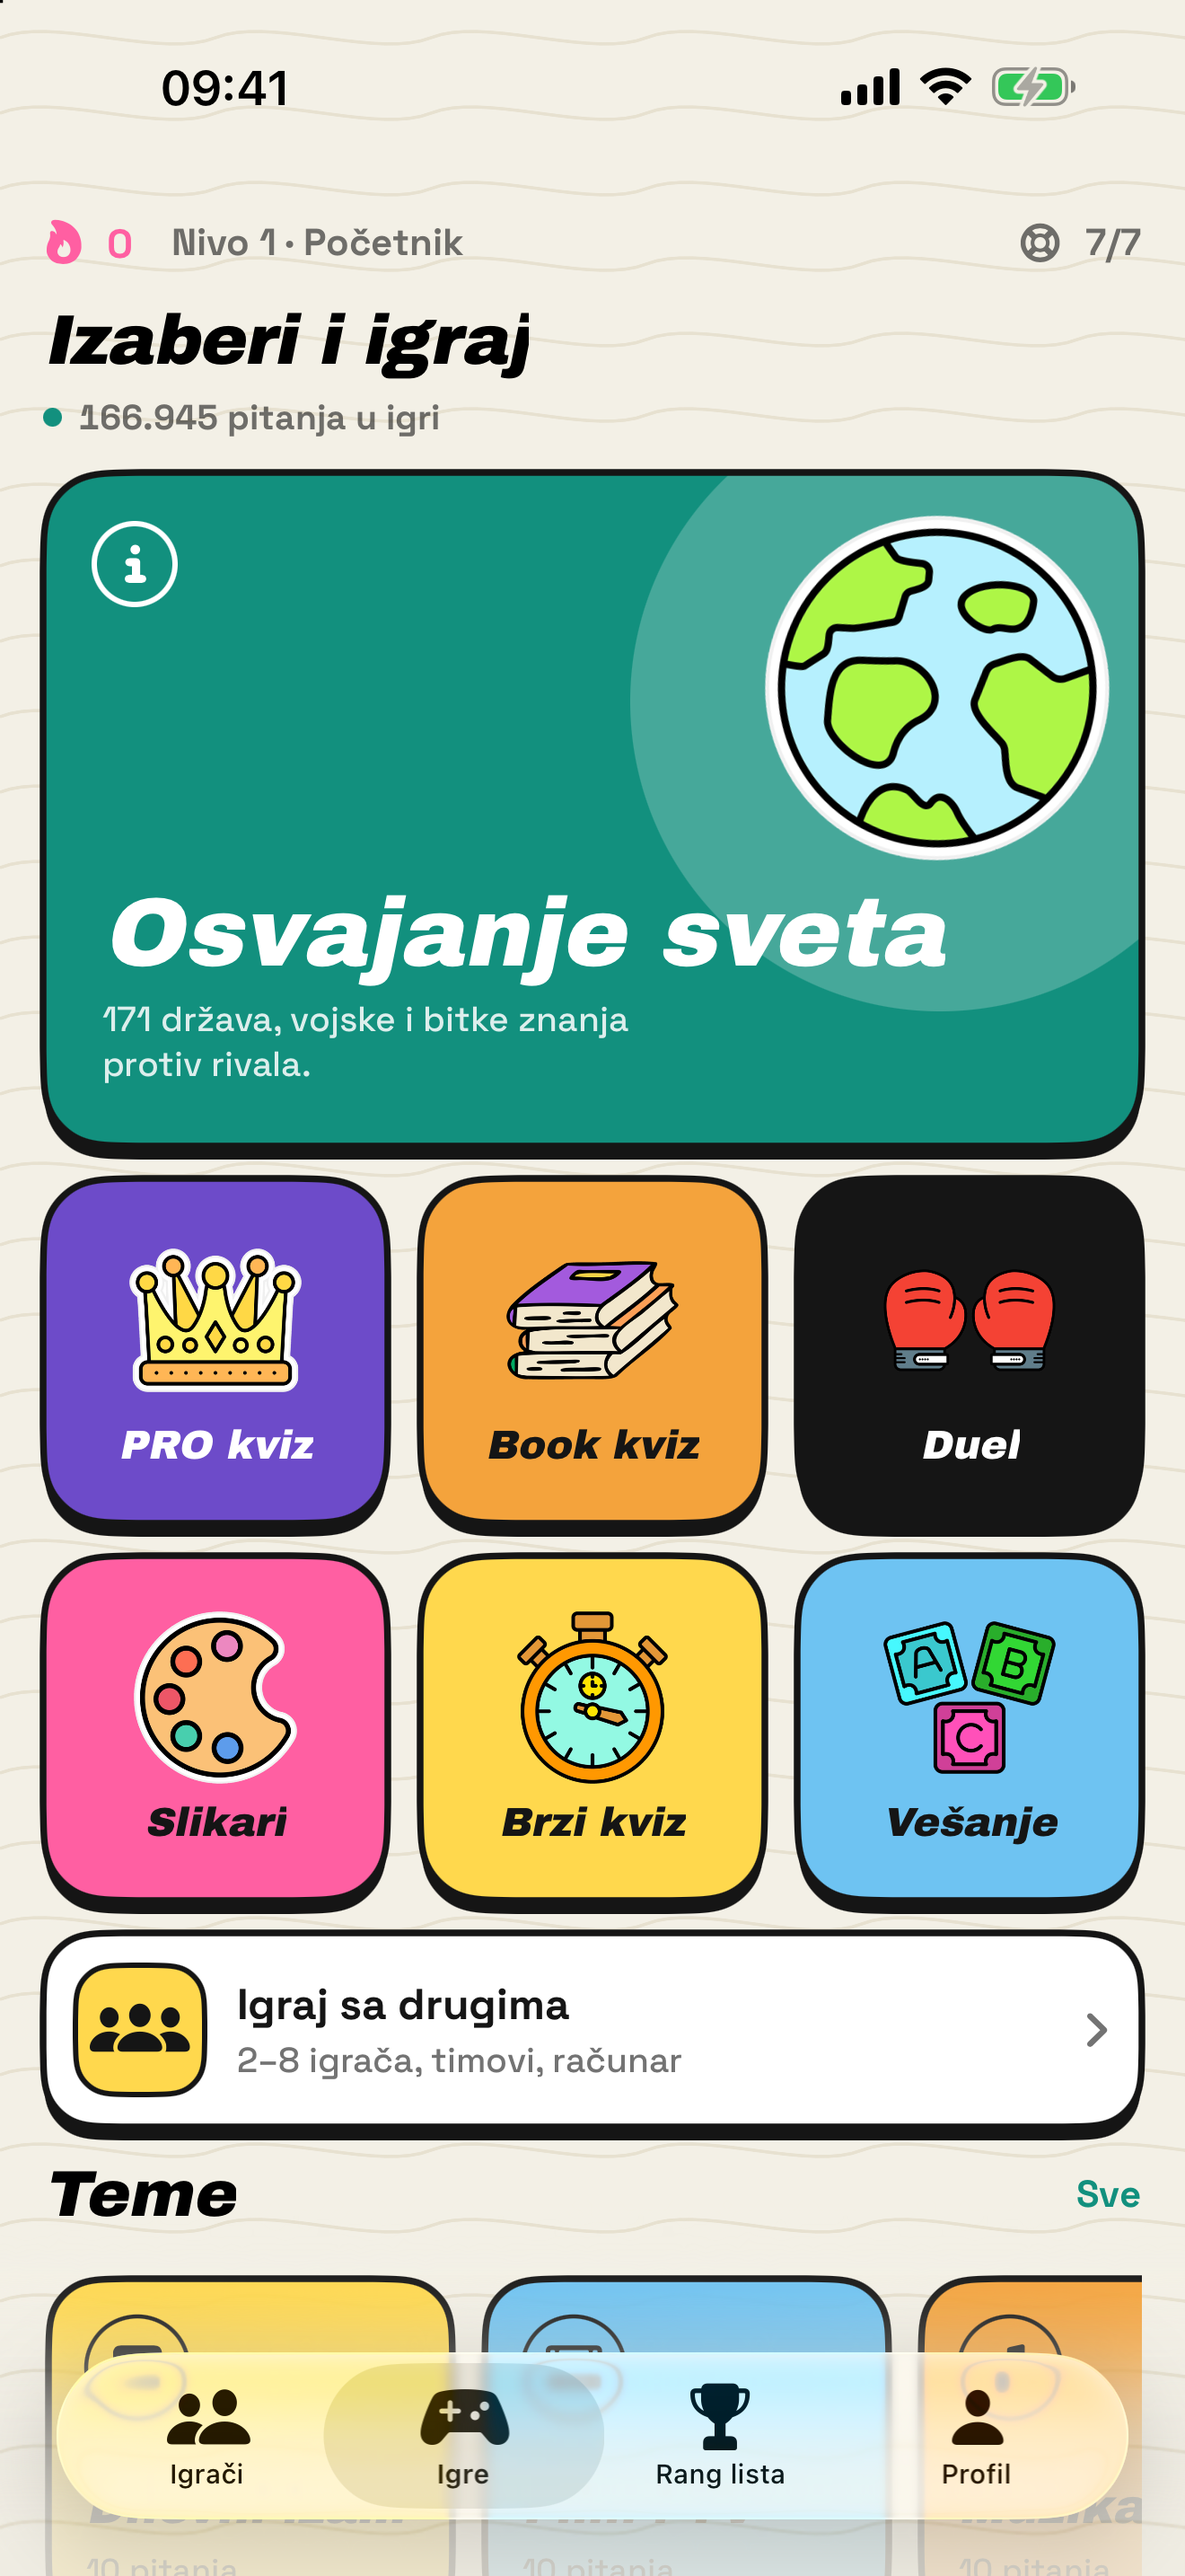
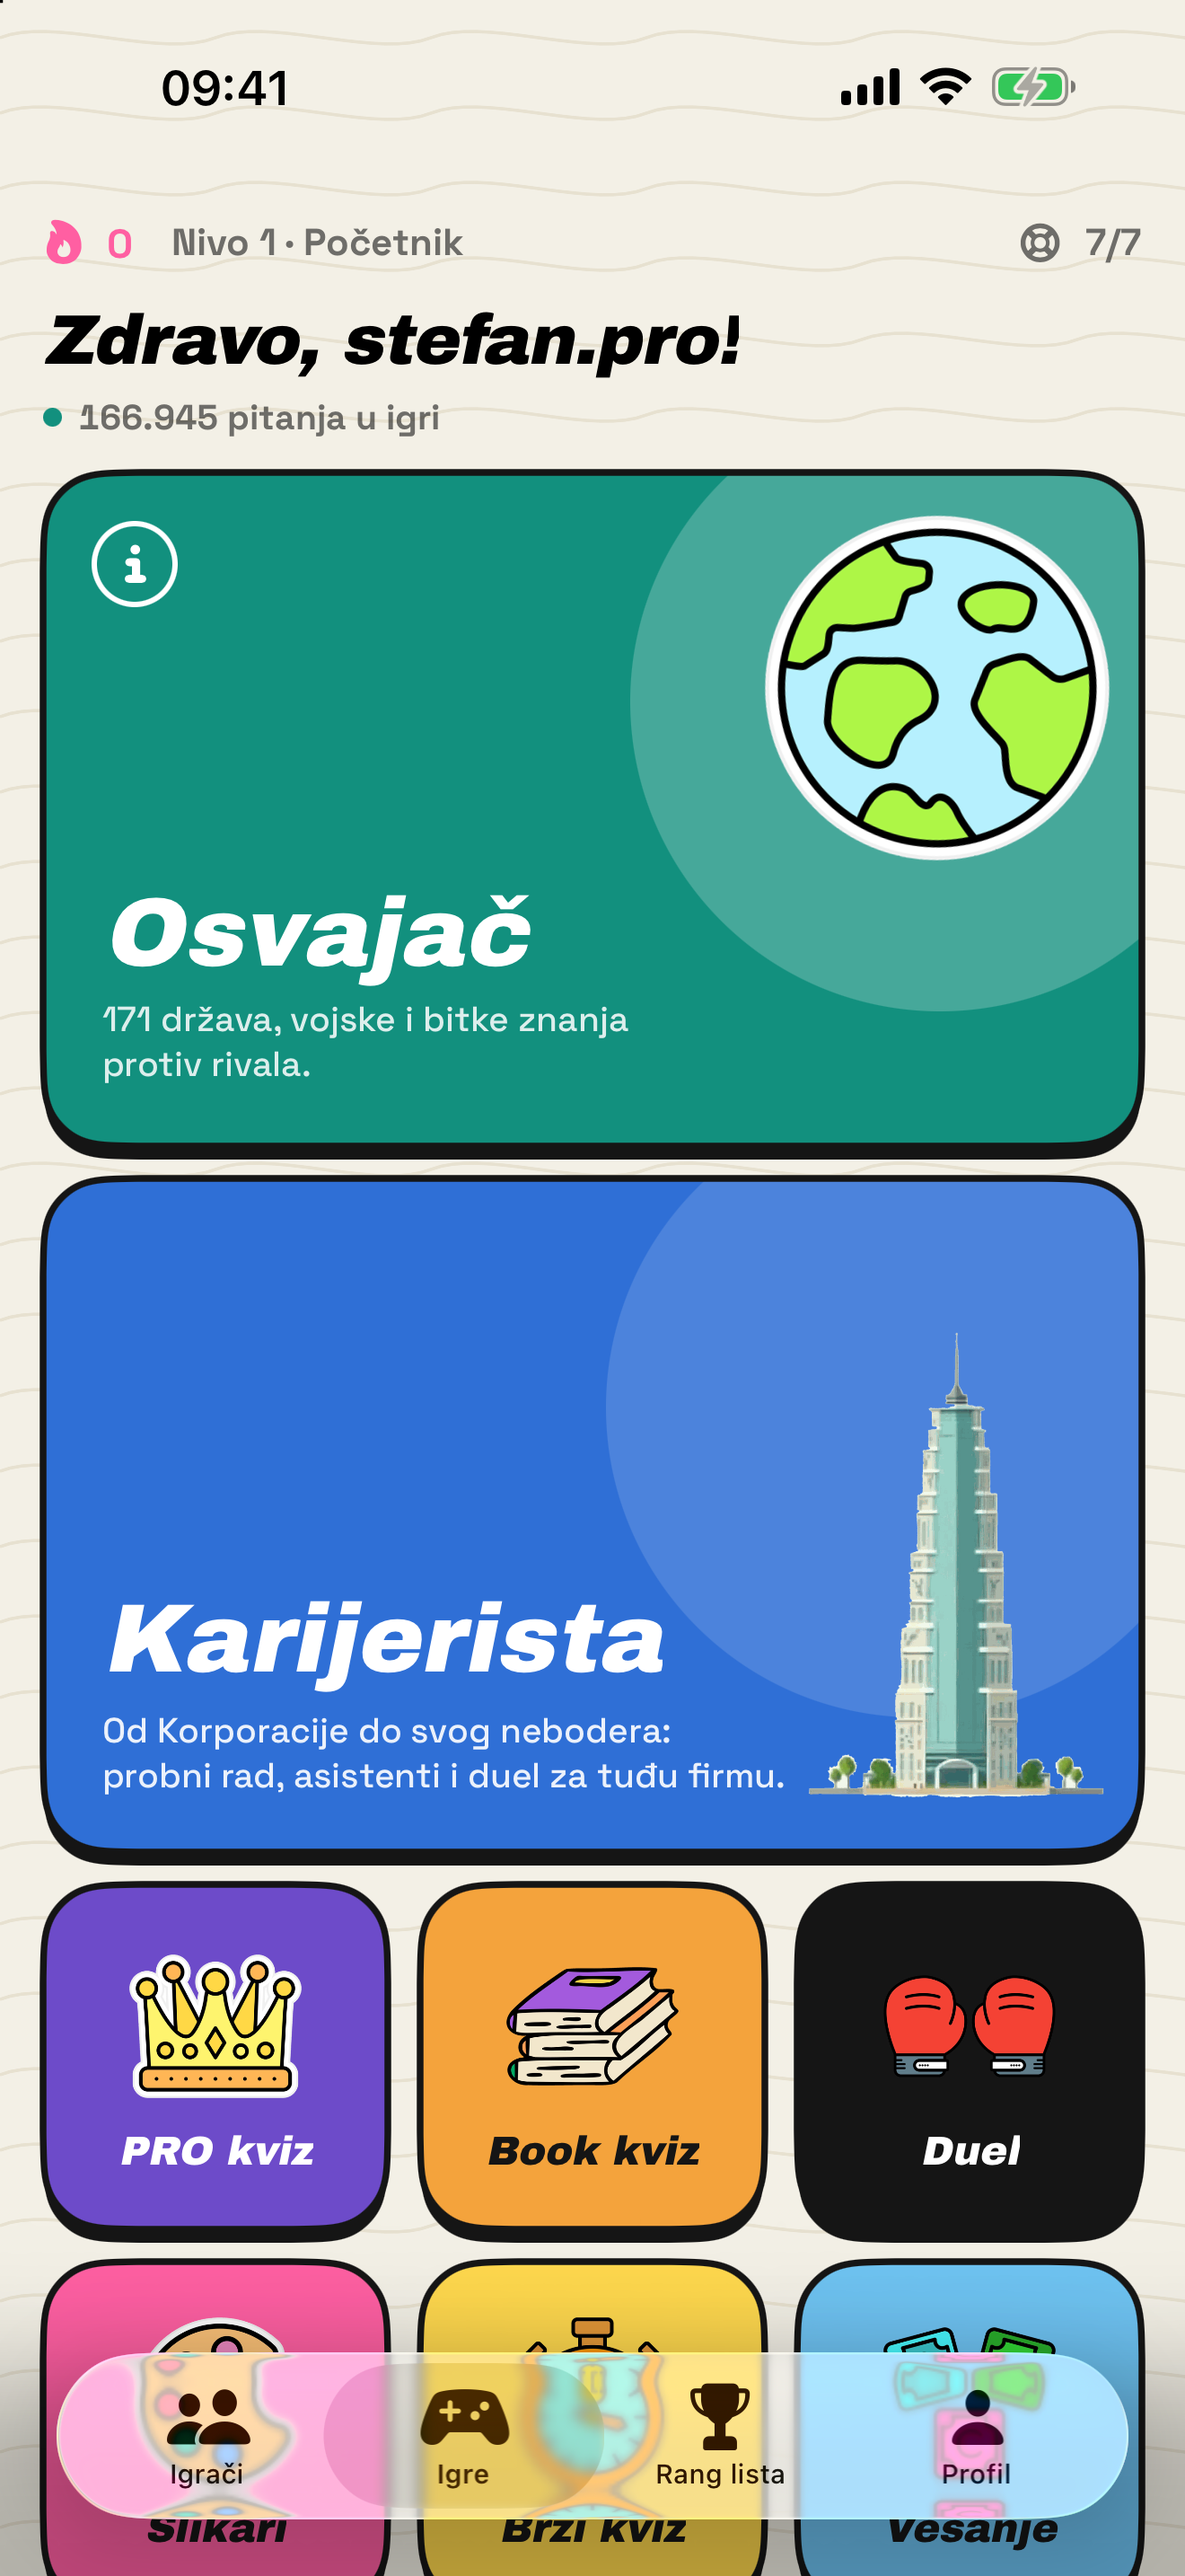
Karijerista: vlasnik bira zaštitu firme 3/5/7/10 dana; novi snimci ekrana sa telefona

diff --git a/mobile/android/app/src/main/java/club/librum/kviz/karijera/KarijeraFirma.kt b/mobile/android/app/src/main/java/club/librum/kviz/karijera/KarijeraFirma.kt
@@ -6,6 +6,7 @@ import androidx.compose.material.icons.rounded.Edit
 import androidx.compose.material.icons.rounded.Star
 import androidx.compose.material.icons.rounded.RecordVoiceOver
 import androidx.compose.material.icons.rounded.CalendarMonth
+import androidx.compose.material.icons.rounded.Shield
 import androidx.compose.material.icons.rounded.Layers
 import androidx.compose.material.icons.rounded.CheckCircle
 import androidx.compose.material.icons.rounded.RadioButtonUnchecked
@@ -90,7 +91,7 @@ private fun KOkvir(nazad: () -> Unit, poruka: String? = null, ocisti: () -> Unit
     }
 }
 
-private enum class List_ { NEMA, BOT, KLJUCNE, IME, PRIJAVA, SEF, PITANJA, SLOBODNI }
+private enum class List_ { NEMA, BOT, KLJUCNE, IME, PRIJAVA, SEF, PITANJA, SLOBODNI, ZASTITA }
 
 /** Firma: svima zgrada, rekord, asistenti, zaposleni; vlasniku i upravljanje (kasa, plata, ključne oblasti, šef, pitanja, slobodni dani…). */
 @Composable
@@ -138,6 +139,22 @@ fun FirmaEkran(firmaId: String, ja: String?, idi: (KEkran) -> Unit, nazad: () ->
                 zatvori = { list = List_.NEMA })
             List_.SEF -> SefList(f.sefNivo, { list = List_.NEMA }) { n -> list = List_.NEMA; vlasnik { Karijera.podesiSefa(f.id, n) } }
             List_.PITANJA -> PitanjaFirmeList(f, { list = List_.NEMA }) { s, fo, u, t -> list = List_.NEMA; vlasnik { Karijera.podesiPitanja(f.id, s, fo, u, t) } }
+            List_.ZASTITA -> DonjiList({ list = List_.NEMA }) {
+                Text("Zaštita od napada", style = naslov(26.sp))
+                Text("Dok traje zaštita, niko ne može da izazove tvoju firmu na duel: imaš vremena da napuniš kasu i postaviš rekord. Biraš jednom; novi vlasnik bira ponovo.",
+                    style = tekst(14.sp, boja = Boje.sivaTekst))
+                val od = f.vlasnik_od?.let { Karijera.datum(it) } ?: java.time.OffsetDateTime.now()
+                listOf(3, 5, 7, 10).forEach { d ->
+                    val kraj = od.plusDays(d.toLong())
+                    val moze = kraj.isAfter(java.time.OffsetDateTime.now())
+                    Row(Modifier.fillMaxWidth().clickable(enabled = moze) { list = List_.NEMA; vlasnik { Karijera.izaberiZastitu(f.id, d) } }.padding(vertical = 14.dp),
+                        verticalAlignment = Alignment.CenterVertically) {
+                        Text("$d dana", style = tekst(16.sp, FontWeight.Bold, if (moze) Boje.mastilo else Boje.sivaTekst), modifier = Modifier.weight(1f))
+                        Text(if (moze) "do " + kraj.format(java.time.format.DateTimeFormatter.ofPattern("d. MMMM", java.util.Locale.forLanguageTag("sr-Latn"))) else "rok je prošao",
+                            style = tekst(14.sp, boja = Boje.sivaTekst))
+                    }
+                }
+            }
             List_.SLOBODNI -> {
                 var dani by remember { mutableStateOf(f.slobodni ?: emptyList()) }
                 DonjiList({ list = List_.NEMA }) {
@@ -219,6 +236,12 @@ fun FirmaEkran(firmaId: String, ja: String?, idi: (KEkran) -> Unit, nazad: () ->
                 RedPodesavanja(androidx.compose.material.icons.Icons.Rounded.CalendarMonth, Boje.ljubicasta, "Slobodni dani", Karijera.daniOpis(f.slobodni)) { list = List_.SLOBODNI }
                 HorizontalDivider(color = Boje.kremTamnija, modifier = Modifier.padding(start = 58.dp))
                 RedPodesavanja(androidx.compose.material.icons.Icons.Rounded.Layers, Boje.nebo, "Pitanja u firmi", "struka ${f.struka_udeo ?: 60}%") { list = List_.PITANJA }
+                HorizontalDivider(color = Boje.kremTamnija, modifier = Modifier.padding(start = 58.dp))
+                val zastitaDo = f.zastita_do?.let { Karijera.datum(it) }
+                RedPodesavanja(androidx.compose.material.icons.Icons.Rounded.Shield, Boje.teal, "Zaštita od napada",
+                    zastitaDo?.let { if (it.isAfter(java.time.OffsetDateTime.now())) "do " + it.format(java.time.format.DateTimeFormatter.ofPattern("d. MMM", java.util.Locale.forLanguageTag("sr-Latn"))) else "istekla" } ?: "nema") {
+                    if (f.zastita_izabrana != true) list = List_.ZASTITA
+                }
             }
         }
         if (f.botovi.isNotEmpty()) {

diff --git a/mobile/ios/LibrumKviz/Karijera/KarijeraFirmaView.swift b/mobile/ios/LibrumKviz/Karijera/KarijeraFirmaView.swift
@@ -26,6 +26,7 @@ struct FirmaView: View {
     @State private var sefList = false
     @State private var pitanjaList = false
     @State private var slobodniList = false
+    @State private var zastitaList = false
 
     var body: some View {
         ScrollView {
@@ -71,6 +72,11 @@ struct FirmaView: View {
         .overlay {
             if slobodniList, case .gotovo(let f) = firma {
                 SlobodniDaniList(dani: f.slobodni ?? []) { d in slobodniList = false; Task { await vlasnik { try await Karijera.podesiSlobodne(f.id, dani: d) } } } zatvori: { slobodniList = false }
+            }
+        }
+        .overlay {
+            if zastitaList, case .gotovo(let f) = firma {
+                ZastitaList(od: f.vlasnik_od.flatMap(Karijera.datum) ?? .now) { d in zastitaList = false; Task { await vlasnik { try await Karijera.izaberiZastitu(f.id, dana: d) } } } zatvori: { zastitaList = false }
             }
         }
         .overlay {
@@ -267,6 +273,13 @@ struct FirmaView: View {
                 Button { slobodniList = true } label: { RedPodesavanja(ikonica: "calendar", boja: .ljubicasta, naziv: "Slobodni dani", vrednost: Karijera.daniOpis(f.slobodni)) }
                 Divider().overlay(Color.kremTamnija).padding(.leading, 60)
                 Button { pitanjaList = true } label: { RedPodesavanja(ikonica: "square.stack.3d.up.fill", boja: .nebo, naziv: "Pitanja u firmi", vrednost: "struka \(f.struka_udeo ?? 60)%") }
+                Divider().overlay(Color.kremTamnija).padding(.leading, 60)
+                // Vlasnik bira jednom koliko dugo niko ne može da napadne firmu (vlasnik 05.11).
+                Button { if f.zastita_izabrana != true { zastitaList = true } } label: {
+                    RedPodesavanja(ikonica: "shield.lefthalf.filled", boja: .teal, naziv: "Zaštita od napada",
+                                   vrednost: (f.zastita_do.flatMap(Karijera.datum)).map { $0 > .now ? "do " + $0.formatted(.dateTime.day().month(.abbreviated).locale(.srpski)) : "istekla" } ?? "nema")
+                }
+                .disabled(f.zastita_izabrana == true)
             }
             .buttonStyle(.plain)
             .mirna()
@@ -914,6 +927,37 @@ struct SlobodniDaniList: View {
     }
 }
 
+/// Izbor zaštite od napada: 3, 5, 7 ili 10 dana od preuzimanja firme, bira se jednom.
+struct ZastitaList: View {
+    let od: Date
+    let izaberi: (Int) -> Void
+    let zatvori: () -> Void
+    var body: some View {
+        DonjiList(zatvori: zatvori) {
+            VStack(alignment: .leading, spacing: 12) {
+                Naslov(tekst: "Zaštita od napada", velicina: 26)
+                Text("Dok traje zaštita, niko ne može da izazove tvoju firmu na duel: imaš vremena da napuniš kasu i postaviš rekord. Biraš jednom; novi vlasnik bira ponovo.")
+                    .font(.tekst(14)).foregroundStyle(Color.sivaTekst).fixedSize(horizontal: false, vertical: true)
+                VStack(spacing: 0) {
+                    ForEach([3, 5, 7, 10], id: \.self) { d in
+                        let kraj = Calendar.current.date(byAdding: .day, value: d, to: od) ?? od
+                        Button { izaberi(d) } label: {
+                            HStack {
+                                Text("\(d) dana").font(.tekst(16, .bold)).foregroundStyle(Color.mastilo)
+                                Spacer()
+                                Text(kraj > .now ? "do " + kraj.formatted(.dateTime.day().month(.wide).locale(.srpski)) : "rok je prošao")
+                                    .font(.tekst(14)).foregroundStyle(Color.sivaTekst)
+                            }
+                            .padding(.vertical, 14).contentShape(Rectangle())
+                        }
+                        .buttonStyle(.plain).disabled(kraj <= .now)
+                        if d != 10 { Divider() }
+                    }
+                }
+            }
+        }
+    }
+}
 
 /// Radnja iz kase na tamnoj kartici: ikonica, naziv i cena ili razlog zašto ne može (ne bledi).
 struct KasaPlocica: View {

diff --git a/mobile/android/app/src/main/java/club/librum/kviz/karijera/KarijeraModel.kt b/mobile/android/app/src/main/java/club/librum/kviz/karijera/KarijeraModel.kt
@@ -55,7 +55,7 @@ object Karijera {
         val id: String, val ime: String, val korporacija: Boolean, val npc: Boolean = false, val vlasnik: String? = null,
         val vlasnik_ime: String = "", val pozicija: String = "", val nivo: Int = 1, val stil: Int = 1, val udeo: String = "posten",
         val kljucne: List<String> = emptyList(), val rekord: Int = 0, val rekord_ime: String? = null, val rekord_igrac: String? = null,
-        val zaposlenih: Int = 0, val botova: Int = 0, val zastita_do: String? = null,
+        val zaposlenih: Int = 0, val botova: Int = 0, val zastita_do: String? = null, val zastita_izabrana: Boolean? = null, val vlasnik_od: String? = null,
         val sef_tacno: Int? = null, val sef_netacno: Int? = null, val sef_ometanja: Int? = null, val struka_udeo: Int? = null,
         val sef_smeh: Boolean? = null, val teza: Boolean? = null, val sef_lik: String? = null,
         val slobodni: List<Int>? = null, val slobodan_danas: Boolean? = null, val stres: Double? = null,
@@ -151,6 +151,11 @@ object Karijera {
         mapOf("p_firma" to id, "p_tacno" to n.tacno, "p_netacno" to n.netacno, "p_ometanja" to n.ometanja, "p_smeh" to n.smeh, "p_lik" to n.lik))
     suspend fun podesiPitanja(id: String, struka: Int, fokus: List<String>, udeo: List<Int>, teza: Boolean): FirmaDetalj =
         rpc("karijera_podesi_pitanja", mapOf("p_firma" to id, "p_struka" to struka, "p_fokus" to fokus, "p_fokus_udeo" to udeo, "p_teza" to teza))
+    /** Zaštita od napada 3/5/7/10 dana od preuzimanja, jednom po vlasništvu (vlasnik 05.11). */
+    suspend fun izaberiZastitu(id: String, dana: Int): FirmaDetalj {
+        rpc<String>("karijera_zastita", mapOf("p_firma" to id, "p_dana" to dana))
+        return firma(id)
+    }
     suspend fun podesiSlobodne(id: String, dani: List<Int>): FirmaDetalj = rpc("karijera_podesi_slobodne", mapOf("p_firma" to id, "p_dani" to dani))
     suspend fun temeFokusa(): List<TemaFokusa> = rpc("karijera_teme_fokusa")
     suspend fun postaviMirni(da: Boolean): Mirni = rpc("karijera_mirni", mapOf("p_da" to da))

diff --git a/mobile/ios/LibrumKviz/Karijera/KarijeraModel.swift b/mobile/ios/LibrumKviz/Karijera/KarijeraModel.swift
@@ -109,6 +109,9 @@ enum Karijera {
         let zaposlenih: Int
         let botova: Int
         let zastita_do: String?
+        /// Vlasnik je već izabrao zaštitu od napada (3/5/7/10 dana) za ovo vlasništvo.
+        let zastita_izabrana: Bool?
+        let vlasnik_od: String?
         // Šef i mešavina pitanja (vlasnik podešava u svojoj firmi); stari odgovori bez polja = podrazumevano.
         let sef_tacno, sef_netacno, sef_ometanja, struka_udeo: Int?
         let sef_smeh, teza: Bool?
@@ -289,6 +292,11 @@ enum Karijera {
     }
     static func podesiPitanja(_ id: String, struka: Int, fokus: [String], udeo: [Int], teza: Bool) async throws -> FirmaDetalj {
         try await rpc("karijera_podesi_pitanja", ["p_firma": id, "p_struka": struka, "p_fokus": fokus, "p_fokus_udeo": udeo, "p_teza": teza])
+    }
+    /// Zaštita firme od napada (3, 5, 7 ili 10 dana od preuzimanja), jednom po vlasništvu.
+    static func izaberiZastitu(_ id: String, dana: Int) async throws -> FirmaDetalj {
+        let _: String = try await rpc("karijera_zastita", ["p_firma": id, "p_dana": dana])
+        return try await firma(id)
     }
     static func podesiSlobodne(_ id: String, dani: [Int]) async throws -> FirmaDetalj {
         try await rpc("karijera_podesi_slobodne", ["p_firma": id, "p_dani": dani])
